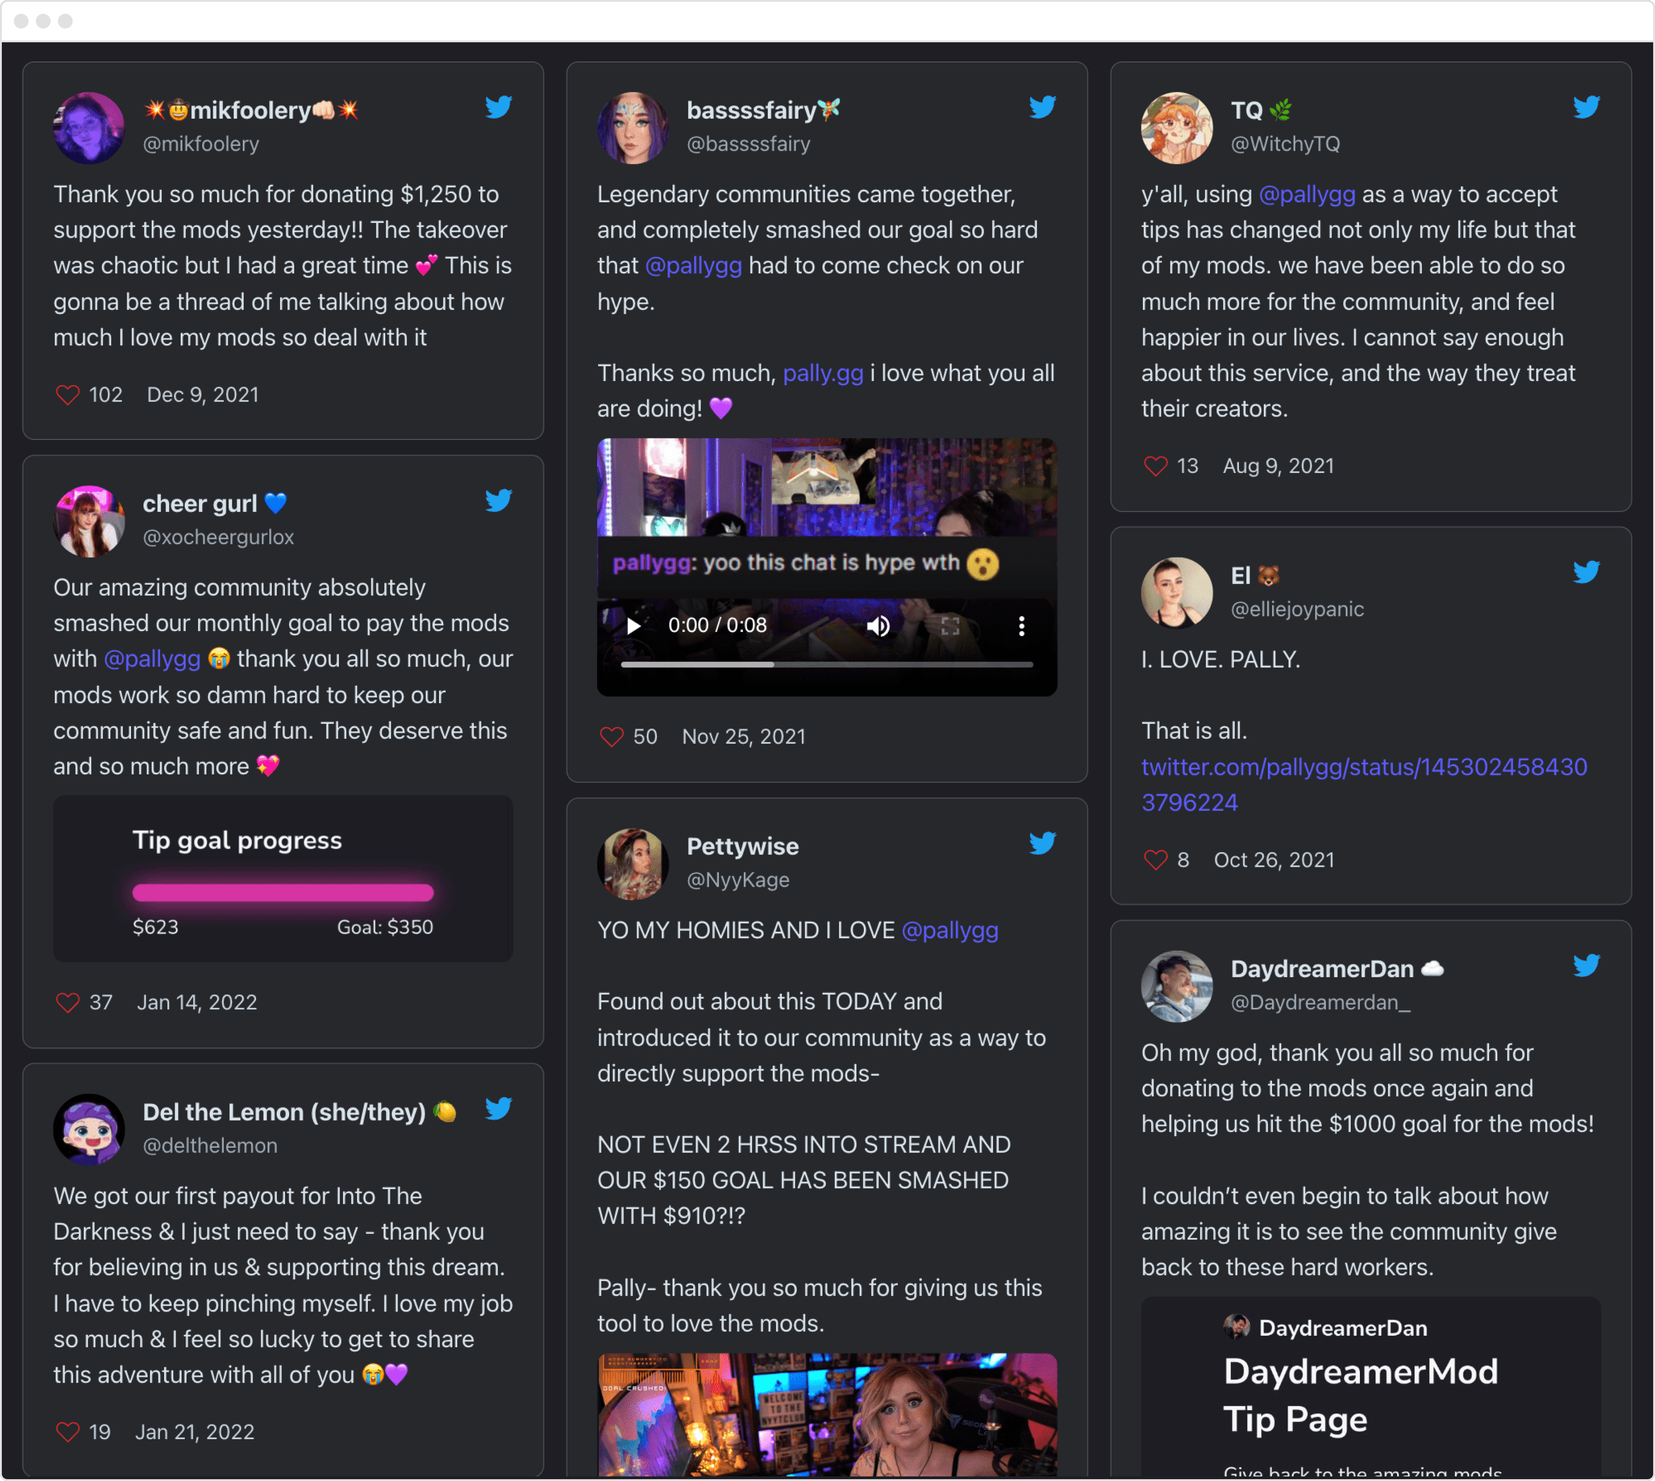
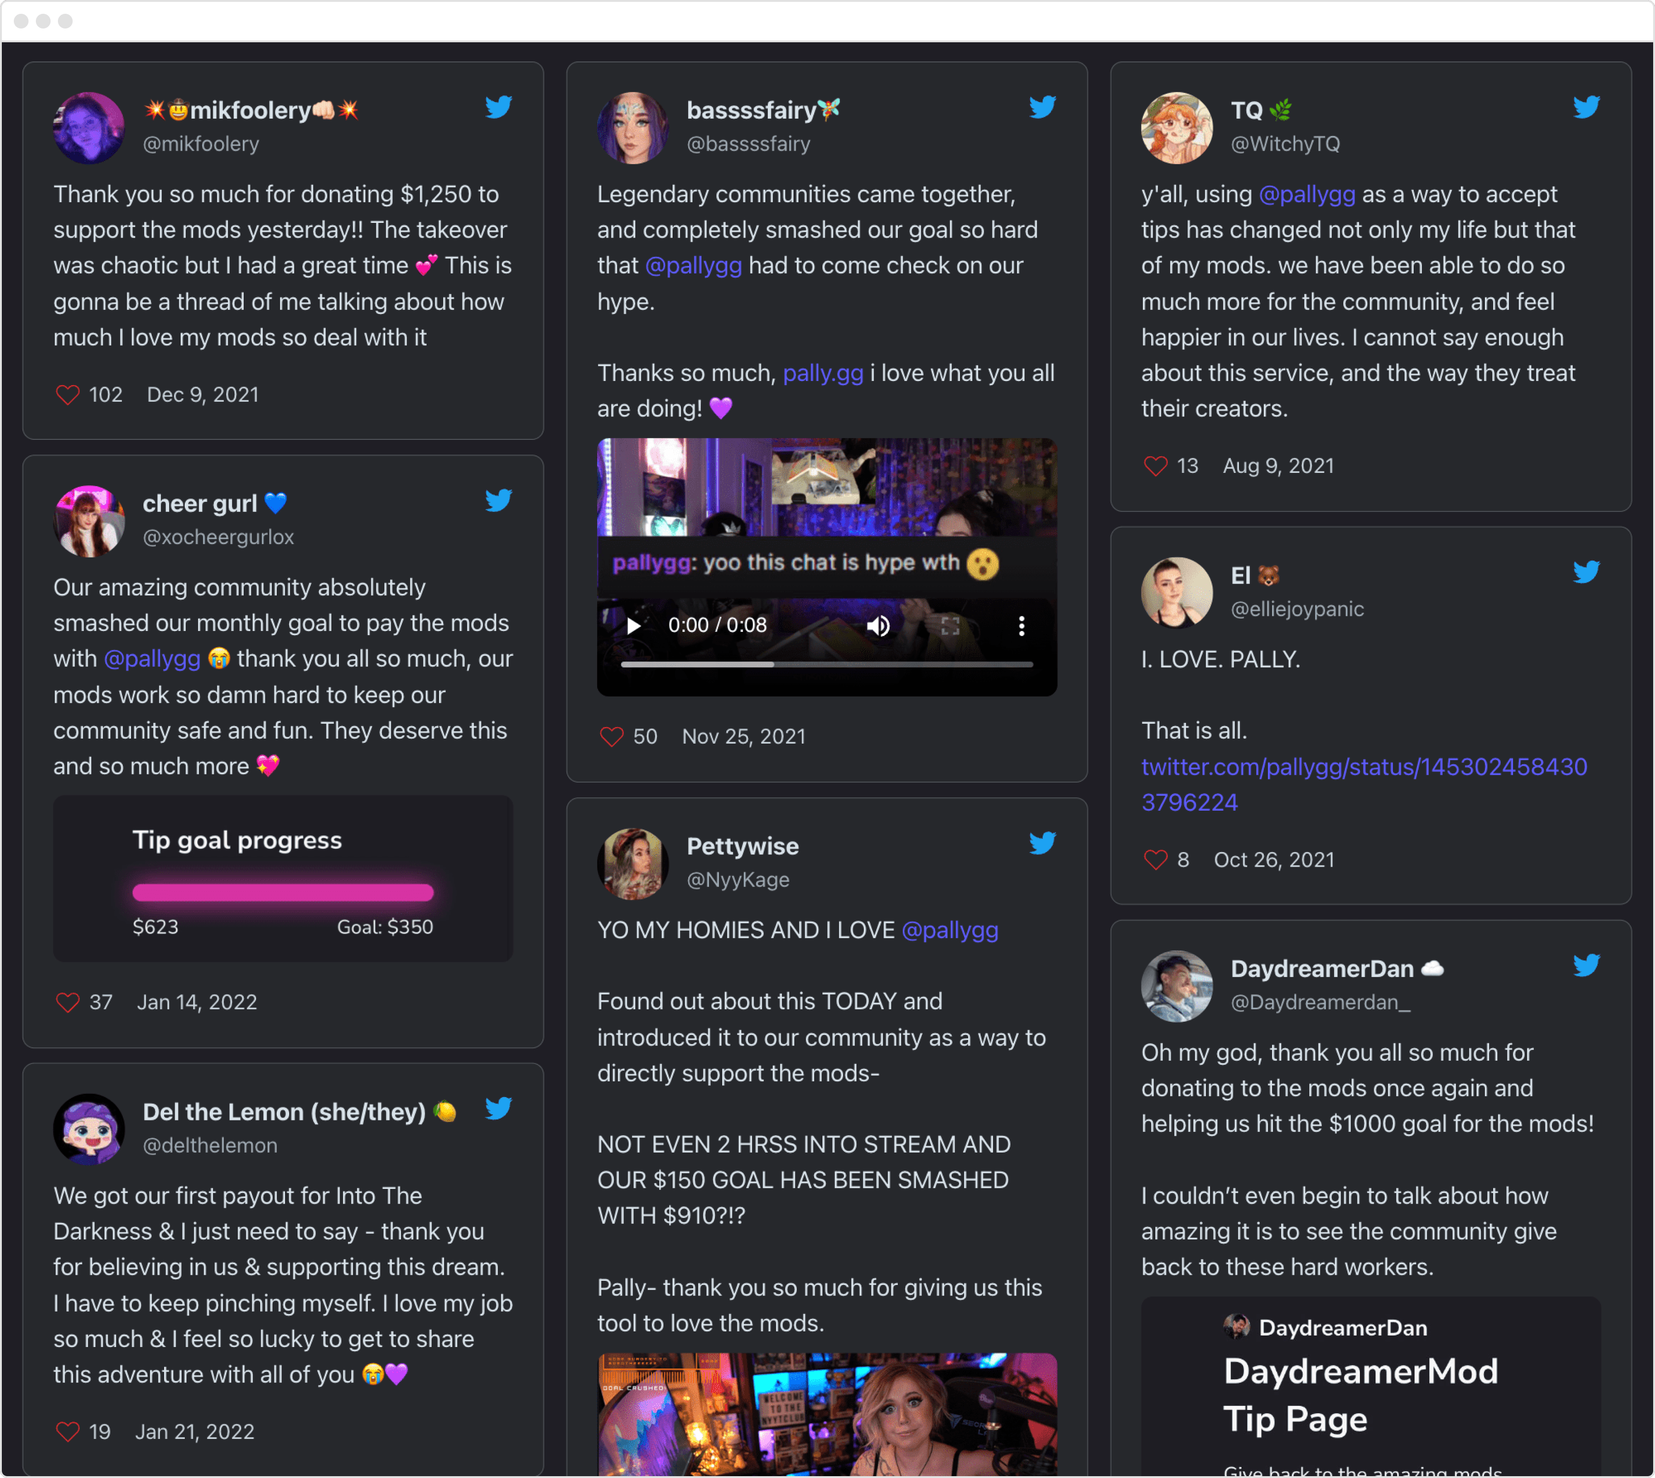
pally dark mode

diff --git a/pallygg.html b/pallygg.html
@@ -6,8 +6,11 @@
     <meta name="viewport" content="width=device-width, initial-scale=1, viewport-fit=cover"/>
     <meta name="description" content="I build digital products that move people and technology forward."/>
     <link rel="preload" as="image" href="images/pallygg/pallygg-tip-page-ripmika.png"/>
+    <link rel="preload" as="image" href="images/pallygg/pallygg-tip-page-ripmika-dark.png"/>
     <link rel="preload" as="image" href="images/pallygg/pallygg-testimonials.png"/>
+    <link rel="preload" as="image" href="images/pallygg/pallygg-testimonials-dark.png"/>
     <link rel="preload" as="image" href="images/pallygg/pallygg-first-customer-tip-page.png"/>
+    <link rel="preload" as="image" href="images/pallygg/pallygg-first-customer-tip-page-dark.png"/>
     <meta property="og:title" content="Kevin Boodtama, Product Design Leader"/>
     <meta property="og:description" content="I build digital products that move people and technology forward."/>
     <meta property="og:url" content="https://boodtama.com"/>
@@ -100,7 +103,11 @@
 
     <!-- Main content -->
     <article class="main-content">
-      <img alt="Screenshot of the Pally.gg tip page" class="main-content-image" src="images/pallygg/pallygg-tip-page-ripmika.png" />
+      <picture class="main-content-image">
+        <source srcset="images/pallygg/pallygg-tip-page-ripmika.png" media="(prefers-color-scheme: light)"/>
+        <source srcset="images/pallygg/pallygg-tip-page-ripmika-dark.png" media="(prefers-color-scheme: dark)"/>
+        <img alt="Screenshot of the Pally.gg tip page" src="images/pallygg/pallygg-tip-page-ripmika.png" />
+      </picture>
       <p class="main-content-image">The tip page is the core of the product, where viewers can leave a tip with a message, and see how funds are split amongst the team.</p>
       <h2 class="main-content-copy">Deeply understanding customer needs</h2>
       <p class="main-content-copy">Seeing the content creator space as a growing market, we wanted to build something specifically in the streaming niche.</p>
@@ -115,31 +122,55 @@
       <p class="main-content-image">Creators love the product so much, they'd talk about it themselves. Payments on the platform become content, which we were able to use as organic, in-product marketing content (with their permission).</p>
       <p class="main-content-copy">A major portion of streamers&rsquo; revenue comes directly from their viewers, in the form of channel subscribers and tips. In every case, this money goes directly to the streamer. The idea that tips could be split opened up many opportunities to turn creator payments into a multiplayer experience.</p>
       <p class="main-content-copy">When we presented this idea, both mods and streamers would get excited. They started talking about all the ways they could use it—a notable shift from our earlier conversations. We decided to pivot.</p>
-      <img alt="Screenshots of testimonial tweets from happy users" class="main-content-image" src="images/pallygg/pallygg-testimonials.png" />
+      <picture class="main-content-image">
+        <source srcset="images/pallygg/pallygg-testimonials.png" media="(prefers-color-scheme: light)"/>
+        <source srcset="images/pallygg/pallygg-testimonials-dark.png" media="(prefers-color-scheme: dark)"/>
+        <img alt="Screenshots of testimonial tweets from happy users" src="images/pallygg/pallygg-testimonials.png" />
+      </picture>
       <p class="main-content-image">Users would often tweet about Pally after their first experience, which we collected and displayed as social proof on our homepage.</p>
 
       <h2 class="main-content-copy">Making our first dollar</h2>
       <p class="main-content-copy">Discovery calls are great, but we needed to find our first customer. We scoured social media for streamers who talked about paying mods, eventually finding someone on Reddit who was passionate about the topic. We sent him a message, expecting nothing. To our surprise, he said, “let&rsquo;s run a fundraiser this weekend.”</p>
       <p class="main-content-copy">We didn&rsquo;t even have a product! So we told him we&rsquo;d have something ready in two weeks, and by the second weekend, we had scrapped together a working MVP. It was as scrappy as could be—a checkout page to receive tips, and a basic on-stream alert that would show on the streamer&rsquo;s broadcast. The rest of the product was us manually operating out of a spreadsheet.</p>
-      <img alt="Screenshot of our MVP and first customer&rsquo;s tip page" class="main-content-image" src="images/pallygg/pallygg-first-customer-tip-page.png" />
+      <picture class="main-content-image">
+        <source srcset="images/pallygg/pallygg-first-customer-tip-page.png" media="(prefers-color-scheme: light)"/>
+        <source srcset="images/pallygg/pallygg-first-customer-tip-page-dark.png" media="(prefers-color-scheme: dark)"/>
+        <img alt="Screenshot of our MVP and first customer&rsquo;s tip page" src="images/pallygg/pallygg-first-customer-tip-page.png" />
+      </picture>
       <p class="main-content-image">Where Pally went from zero to one. Our very first customer, on his first stream using Pally. The first version of our product had two pages: a tip feed and checkout page.</p>
-      <img alt="Screenshot of our MVP transactions spreadsheet" class="main-content-image" src="images/pallygg/pallygg-first-customer-transactions.png" />
+      <picture class="main-content-image">
+        <source srcset="images/pallygg/pallygg-first-customer-transactions.png" media="(prefers-color-scheme: light)"/>
+        <source srcset="images/pallygg/pallygg-first-customer-transactions-dark.png" media="(prefers-color-scheme: dark)"/>
+        <img alt="Screenshot of our MVP transactions spreadsheet" src="images/pallygg/pallygg-first-customer-transactions.png" />
+      </picture>
       <p class="main-content-image">To focus on time-to-value for our customers, the initial MVP was as scrappy as possible. After a user received tips, we manually calculated their tip splits and payouts in a spreadsheet.</p>
 
       <h2 class="main-content-copy">One customer to many</h2>
       <p class="main-content-copy">With a working MVP, we needed to validate the concept further. We seeded a pipeline of leads by finding streamers who ran charity fundraisers, and cold emailed them, thinking that if they were generous enough to do that, they&rsquo;d be more likely to run a campaign for their own mods. It worked. After enough cold emails (hundreds), we had a couple dozen prospects signed up.</p>
       <p class="main-content-copy">On the product side, everything was still incredibly scrappy, with a lot of unscalable work being done. We shipped a landing page with a basic sign up form, which put them into an “early access” queue. There was no self-signup flow yet, so each team&rsquo;s tip page was manually created by entering rows into a database, and often required some email back-and-forth. We&rsquo;d manually calculate the splits for each tip, then send users their payouts one by one.</p>
-      <img alt="Evolution of the dashboard" class="main-content-image" src="images/pallygg/pallygg-dashboard-evolution.png" />
+      <picture class="main-content-image">
+        <source srcset="images/pallygg/pallygg-dashboard-evolution.png" media="(prefers-color-scheme: light)"/>
+        <source srcset="images/pallygg/pallygg-dashboard-evolution-dark.png" media="(prefers-color-scheme: dark)"/>
+        <img alt="Evolution of the dashboard" src="images/pallygg/pallygg-dashboard-evolution.png" />
+      </picture>
       <p class="main-content-image">Evolution of the dashboard over time, as we added more features.</p>
       <p class="main-content-copy">In the meantime, we tried to get onto discovery calls with each prospect and learn as much as possible. We also set up a Discord server and funneled users there, to establish a community space and engage with users who had any questions. These tactics proved to be greatly effective, in that they both established trust with these early creators, and their feedback gave us a clear product roadmap to build on.</p>
 
       <h2 class="main-content-copy">Beginning to scale</h2>
       <p class="main-content-copy">One afternoon, our Twitter notifications started blowing up. We realized a creator tweeted excitedly about our platform, and it started to go viral! This started a snowball of demand, as streamers and mods started signing up and tweeting about us. We had enough momentum that we were getting organic sign-ups daily, faster than we could keep up with. This was a huge breakthrough—it was clear that our product solved a real pain point for people, and they wanted to use it.</p>
       <p class="main-content-copy">We prioritized getting this backlog of users onto the platform by implementing a self-signup flow. It wasn&rsquo;t perfect, but with learnings from our original early access form, we were able to get users live without needing to interact with them first.</p>
-      <img alt="Creator sign up flow" class="main-content-image" src="images/pallygg/pallygg-sign-up-creator.png" />
+      <picture class="main-content-image">
+        <source srcset="images/pallygg/pallygg-sign-up-creator.png" media="(prefers-color-scheme: light)"/>
+        <source srcset="images/pallygg/pallygg-sign-up-creator-dark.png" media="(prefers-color-scheme: dark)"/>
+        <img alt="Creator sign up flow" src="images/pallygg/pallygg-sign-up-creator.png" />
+      </picture>
       <p class="main-content-image">The start of the creator sign up flow. If they sign up with Twitch, we can pre-fill their account details: username display name, and profile picture. If they prefer to log in with email and password, they can connect their Twitch account afterwards.</p>
       <p class="main-content-copy">Users were categorized into two groups: creators, who were the owners of the page, and team members joining to receive a split of the funds. After a creator set up their page, they could invite their team members, and set up their split. Once everyone had joined, they could go live and immediately receive funds. Users with an account joining other teams simply needed to log in after receiving an invite link, and they were done.</p>
-      <img alt="Connect PayPal flow" class="main-content-image" src="images/pallygg/pallygg-connect-paypal.png" />
+      <picture class="main-content-image">
+        <source srcset="images/pallygg/pallygg-connect-paypal.png" media="(prefers-color-scheme: light)"/>
+        <source srcset="images/pallygg/pallygg-connect-paypal-dark.png" media="(prefers-color-scheme: dark)"/>
+        <img alt="Connect PayPal flow" src="images/pallygg/pallygg-connect-paypal.png" />
+      </picture>
       <p class="main-content-image">We iterated to have users connect their PayPal account, which was key to allow us to automate payouts. It also reduced fraud and prevented errors caused by users entering an incorrect PayPal email address.</p>
       <p class="main-content-copy">Over time, we iterated and improved this process:</p>
       <ul class="main-content-list">
@@ -147,15 +178,27 @@
         <li class="main-content-list">We improved security and reduced operational overhead by having users connect their PayPal account. In the original MVP, this was just an input field for a PayPal email address, which would often lead to errors.</li>
         <li class="main-content-list">We added an onboarding guide for creators, to give them clear next steps, and encourage them to use features that would optimize their performance while waiting for their team member to join.</li>
       </ul>
-      <img alt="Editing a team&rsquo;s tip splits" class="main-content-image" src="images/pallygg/pallygg-edit-tip-splits.png" />
+      <picture class="main-content-image">
+        <source srcset="images/pallygg/pallygg-edit-tip-splits.png" media="(prefers-color-scheme: light)"/>
+        <source srcset="images/pallygg/pallygg-edit-tip-splits-dark.png" media="(prefers-color-scheme: dark)"/>
+        <img alt="Editing a team&rsquo;s tip splits" src="images/pallygg/pallygg-edit-tip-splits.png" />
+      </picture>
       <p class="main-content-image">After creating a tip page, creators can invite up to 14 other teammates, organize them into categories, and customize their tip splits to their liking.</p>
-      <img alt="Design epxlorations for editing tip splits" class="main-content-image" src="images/pallygg/pallygg-edit-tip-splits-exploration.png" />
+      <picture class="main-content-image">
+        <source srcset="images/pallygg/pallygg-edit-tip-splits-exploration.png" media="(prefers-color-scheme: light)"/>
+        <source srcset="images/pallygg/pallygg-edit-tip-splits-exploration-dark.png" media="(prefers-color-scheme: dark)"/>
+        <img alt="Design explorations for editing tip splits" src="images/pallygg/pallygg-edit-tip-splits-exploration.png" />
+      </picture>
       <p class="main-content-image">Additional design explorations for editing tip splits.</p>
       
       <h2 class="main-content-copy">Balancing customer feedback</h2>
       <p class="main-content-copy">One of the hardest things in iterating a product is being disciplined enough to know what not to build, as much as what to build. We got so much feedback, and many, many ideas from our community. This is a double-edged sword—if we implemented everything, we&rsquo;d end up with an unfocused product. Users need to know what problem your product solves, and it can&rsquo;t be “everything”.</p>
       <p class="main-content-copy">We had to stay dedicated to our core vision: that we made streamer payments a multiplayer experience.</p>
-      <img alt="Screenshot of editing tip alerts" class="main-content-image" src="images/pallygg/pallygg-edit-alert.png" />
+      <picture class="main-content-image">
+        <source srcset="images/pallygg/pallygg-edit-alert.png" media="(prefers-color-scheme: light)"/>
+        <source srcset="images/pallygg/pallygg-edit-alert-dark.png" media="(prefers-color-scheme: dark)"/>
+        <img alt="Screenshot of editing tip alerts" src="images/pallygg/pallygg-edit-alert.png" />
+      </picture>
       <p class="main-content-image">Streamers can customize alerts that broadcast when they receive a tip, creating moments of surprise and excitement they share with their viewers.</p>
       <p class="main-content-copy">Our most common feature requests were for customizing the on-stream integrations with Pally. For example, receiving a tip is a moment worth celebrating, and a core component of Pally&rsquo;s product are tip alerts. They broadcast this moment, creating surprise and excitement that streamers and viewers share together, and generate organic, in-product marketing content. Streamers can customize alerts to fit their brand, but we were mindful of building this too far—there are entire products around alert customization, and Pally&rsquo;s core value proposition is to automate payment splitting. We realized basic customization worked for the majority of creators, and instead opted to explore an API for more advanced streamers to connect to for full customization.</p>
       <video class="main-content-image-medium" controls>
@@ -168,7 +211,11 @@
         <li class="main-content-list">How does this feature incentivize more tips?</li>
         <li class="main-content-list">Would not having this feature be a deal-breaker for streamers?</li>
       </ul>
-      <img alt="Diagram of tip goal feature" class="main-content-image" src="images/pallygg/pallygg-edit-tip-goal.png" />
+      <picture class="main-content-image">
+        <source srcset="images/pallygg/pallygg-edit-tip-goal.png" media="(prefers-color-scheme: light)"/>
+        <source srcset="images/pallygg/pallygg-edit-tip-goal-dark.png" media="(prefers-color-scheme: dark)"/>
+        <img alt="Diagram of tip goal feature" src="images/pallygg/pallygg-edit-tip-goal.png" />
+      </picture>
       <p class="main-content-image">Creators can customize a tip goal that displays on their Twitch broadcast and on their Pally tip page. While the goal amount is arbitrary, displaying the progress bar on-stream increases viewer engagement, and ultimately, tip conversions.</p>
 
       <h2 class="main-content-copy">Building grit to overcome obstacles</h2>
@@ -177,7 +224,11 @@
       <p class="main-content-copy">We applied, and heard nothing back. We followed up. Crickets.</p>
       <p class="main-content-copy">Sometimes, as a founder, you need to do what it takes to survive. For us, that meant pulling out all the stops, and doing mundane, energy-draining work. We utilized any source of leverage we could find—we reached out to every single person we knew who had any sort of connection to PayPal, scoured LinkedIn and cold DMed second and third connections, and called PayPal every day, sitting on hold for hours.</p>
       <p class="main-content-copy">This took us months, but through sheer will and persistence, we got through and built the feature. It was very unsexy, but I&rsquo;m proud of that. It was a great lesson in grit: sometimes, there&rsquo;s no clever “hack,” you just have to keep doing the thing you don&rsquo;t want to, and you don&rsquo;t give up until you overcome the obstacle.</p>
-      <img alt="Screenshots of payout history feature" class="main-content-image" src="images/pallygg/pallygg-payout-history.png" />
+      <picture class="main-content-image">
+        <source srcset="images/pallygg/pallygg-payout-history.png" media="(prefers-color-scheme: light)"/>
+        <source srcset="images/pallygg/pallygg-payout-history-dark.png" media="(prefers-color-scheme: dark)"/>
+        <img alt="Screenshots of payout history feature" src="images/pallygg/pallygg-payout-history.png" />
+      </picture>
       <p class="main-content-image">After shipping automated payouts through the PayPal API, this unlocked the ability for us to show users their payout history, with a detailed ledger of all tips included in each payout.</p>
 
       <h2 class="main-content-copy">Growing and selling</h2>
@@ -187,7 +238,11 @@
         <li class="main-content-list">The growth flywheel inherent to the product was working. When the product is used, it naturally creates in-product marketing. It&rsquo;s also a team-based platform, and when users sign up and have a good experience, they get often get other teams they are involved with to sign up.</li>
         <li class="main-content-list">The product was sticky. Creators signed up to the platform and stuck with it long term. We found that 67% of teams were active for a median of 1 year.</li>
       </ul>
-      <img alt="Charts showing Pally&rsquo;s key metrics" class="main-content-image" src="images/pallygg/pallygg-charts.png" />
+      <picture class="main-content-image">
+        <source srcset="images/pallygg/pallygg-charts.png" media="(prefers-color-scheme: light)"/>
+        <source srcset="images/pallygg/pallygg-charts-dark.png" media="(prefers-color-scheme: dark)"/>
+        <img alt="Charts showing Pally&rsquo;s key metrics" src="images/pallygg/pallygg-charts.png" />
+      </picture>
       <p class="main-content-image">Even when we halted nearly all marketing efforts, Pally continued to show growth.</p>
       <p class="main-content-copy">The story was in the data, and the data was powerful: creator teams loved using Pally.</p>
       <p class="main-content-copy">We didn&rsquo;t have the bandwidth to give Pally the attention it deserved, but we also didn&rsquo;t want to shut the service down. It was clear there was still room for growth under the right operators.</p>
